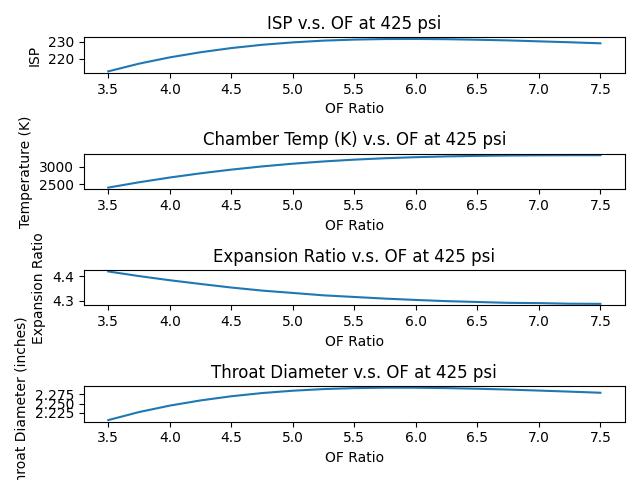
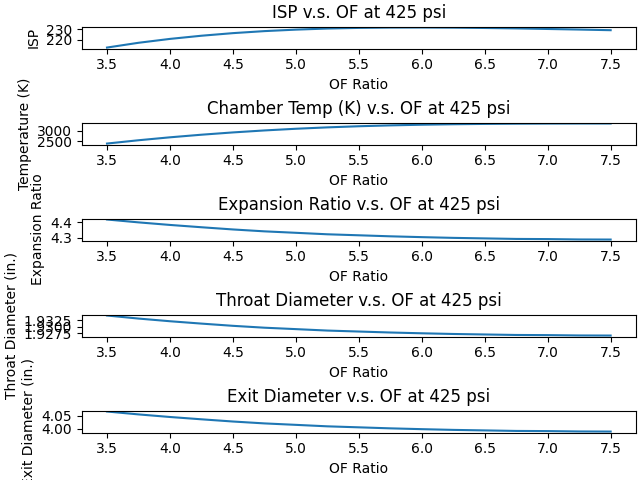
debugged calculations

diff --git a/graphs.py b/graphs.py
@@ -5,10 +5,11 @@ from calculations import getOptimumExpansionRatio
 from calculations import getMassFlow
 from calculations import getExhaustVelocity
 from calculations import getThroatDiameter
+from calculations import getExitDiameter
 
-
-F_thrust = 40960 #in N, harcoded constant
-burn_time = 5 #in s, hardcoded constant
+impulse = 40960 #in N, harcoded constant
+burn_time = 5.1 #in s, hardcoded constant
+thrust_avg = impulse / burn_time
 
 
 def getData(paths, pressure):
@@ -22,7 +23,7 @@ def getData(paths, pressure):
     MOL_WEIGHT = df["MOL_WEIGHT"].to_numpy()
 
 
-    fig, axs = plt.subplots(4) 
+    fig, axs = plt.subplots(5, constrained_layout = True) 
     """
     Plot in the following order:
     Graphs for ISP v.s. OF, 
@@ -56,20 +57,32 @@ def getData(paths, pressure):
     """throat diameter v.s. OF plot"""
     throat_diameter = []
     for i in range(len(df)):
-        c = getExhaustVelocity(F_thrust, burn_time)
-        mdot = getMassFlow(F_thrust, c)
+        c = getExhaustVelocity(ISP[i])
+        mdot = getMassFlow(thrust_avg, c)
         throat_diameter.append(getThroatDiameter(mdot, pressure, MOL_WEIGHT[i], TEMP[i], CP_CV[i]))
-
+    print(exp_ratios)
     throat_diameter = np.array(throat_diameter)
     axs[3].plot(OF, throat_diameter)
     axs[3].set_xlabel("OF Ratio")
-    axs[3].set_ylabel("Throat Diameter (inches)")
+    axs[3].set_ylabel("Throat Diameter (in.)")
     axs[3].set_title(f"Throat Diameter v.s. OF at {pressure} psi")
+    #print(throat_diameter)
 
-    fig.tight_layout()
+    """exit cone diameter calculations"""
+    exit_diameter = []
+    for i in range(len(throat_diameter)):
+        exit_diameter.append(getExitDiameter(exp_ratios[i], throat_diameter[i]))
+    exit_diameter = np.array(exit_diameter)
+
+    axs[4].plot(OF, exit_diameter)
+    axs[4].set_xlabel("OF Ratio")
+    axs[4].set_ylabel("Exit Diameter (in.)")
+    axs[4].set_title(f"Exit Diameter v.s. OF at {pressure} psi")
+    #fig.tight_layout()
 
 
     plt.savefig(paths[1])
+    plt.show()
     
 def getPaths(pressure):
     source = f"data/{pressure}psi.csv"

diff --git a/calculations.py b/calculations.py
@@ -15,15 +15,15 @@ def getOptimumExpansionRatio(T, k, P0):
     epsilon = 1 / (first_term * second_term * third_term)
     return epsilon
 
-def getExhaustVelocity(thrust, burntime):
-    return thrust / burntime
+def getExhaustVelocity(isp): 
+    return isp * 9.81
 
-def getMassFlow(thrust, c):
+def getMassFlow(thrust, c): #T = mdot * c
     return thrust / c
 
 def getThroatDiameter(mdot, P0, molecular_mass, T0, k): 
     """Returns the throat diameter. P0 is the chamber pressure, T0 is the chamber temperature. 
-    Assumes mdot is in kg/s, P0 is in psi, molecular mass is in g/mol, T0 is in K, k is dimensionless.
+        Assumes mdot is in kg/s, P0 is in psi, molecular mass is in g/mol, T0 is in K, k is dimensionless.
     """
 
     P0 *= 6894.76 #convert psi to pascal
@@ -40,6 +40,9 @@ def getThroatDiameter(mdot, P0, molecular_mass, T0, k):
 
     return diameter
 
-
+def getExitDiameter(exp_ratio, throat_diameter):
+    return sqrt(throat_diameter**2 * exp_ratio)
+#Ae = ep * At
+#de^2 = ep * dt^2
 
 
